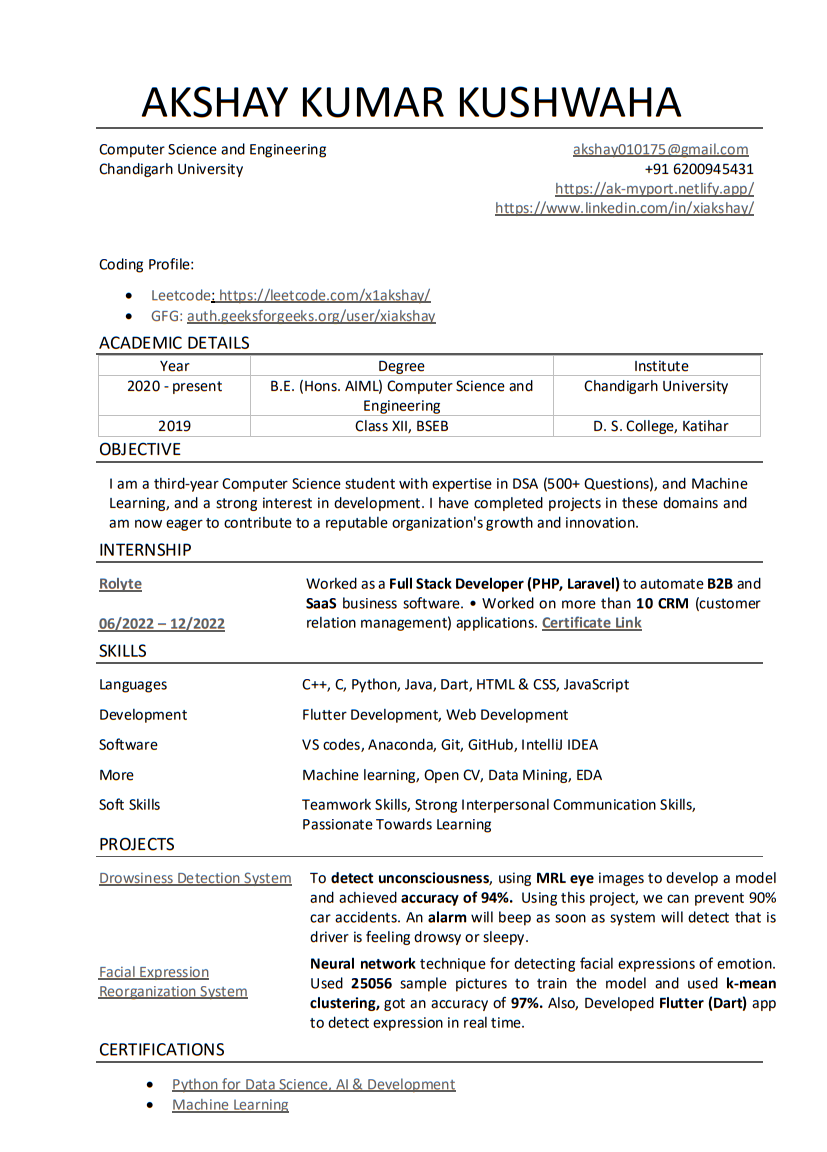
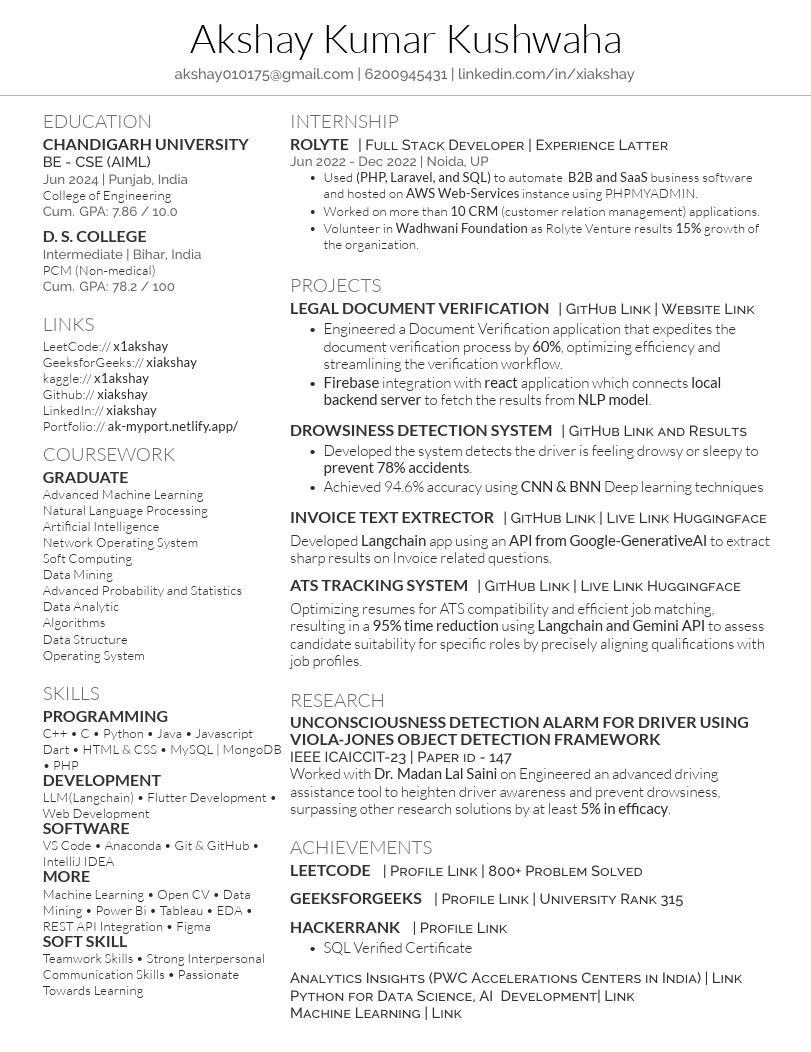
Update 2.3
Resume Update - sco check

Changed region(s): [[0.0617, 0.0304, 0.9556, 0.9734]]

diff --git a/index.html b/index.html
@@ -4,8 +4,9 @@
 <head>
     <meta charset="UTF-8">
     <meta http-equiv="X-UA-Compatible" content="IE=edge">
+    <meta name="description" content="Akshay Kumar Kushwaha, I am a compititive programmer, a machine Learning engineer and flutter developer. Linkedin Id - xiakshay. Letcode id - x1akshay">
     <meta name="viewport" content="width=device-width, initial-scale=1.0">
-    <title>Portfolio</title>
+    <title>Akshay Kumar Kushwaha</title>
 
     <!-- stylesheets -->
     <link rel="stylesheet" href="./style/scrollbar.css">
@@ -38,7 +39,7 @@
     <div id="progressbar"></div>
     <div id="scrollPath"></div>
     <nav class="nav-bar">
-        <label class="logo">Portfolio</label>
+        <label class="logo">xiakshay</label>
         <ul class="nav-ul">
             <li class="nav-li"><a id="nav-a" class="active" href="#home">Home</a></li>
             <li class="nav-li"><a id="nav-a" href="#pabout">About</a></li>
@@ -424,7 +425,7 @@
             <img class="abo-image" src="./image/resume_1.png" alt="akshay Portfolio">
             <div class="about-popup">
                 <a href="#pabout" onclick="aboutToggle()" class="about-back-pop">Back</a>
-                <a href="https://drive.google.com/file/d/1046QLuHsZY4kwrY0v48g-aW623aFa2FJ/view?usp=sharing"
+                <a href="https://drive.google.com/file/d/1fLALkvQOTVBE_TqMBe9_9snJka84eelQ/view?usp=sharing"
                     target="_blank" class="about-back-pop" id="ab-prin">Preview</a>
             </div>
         </div>
